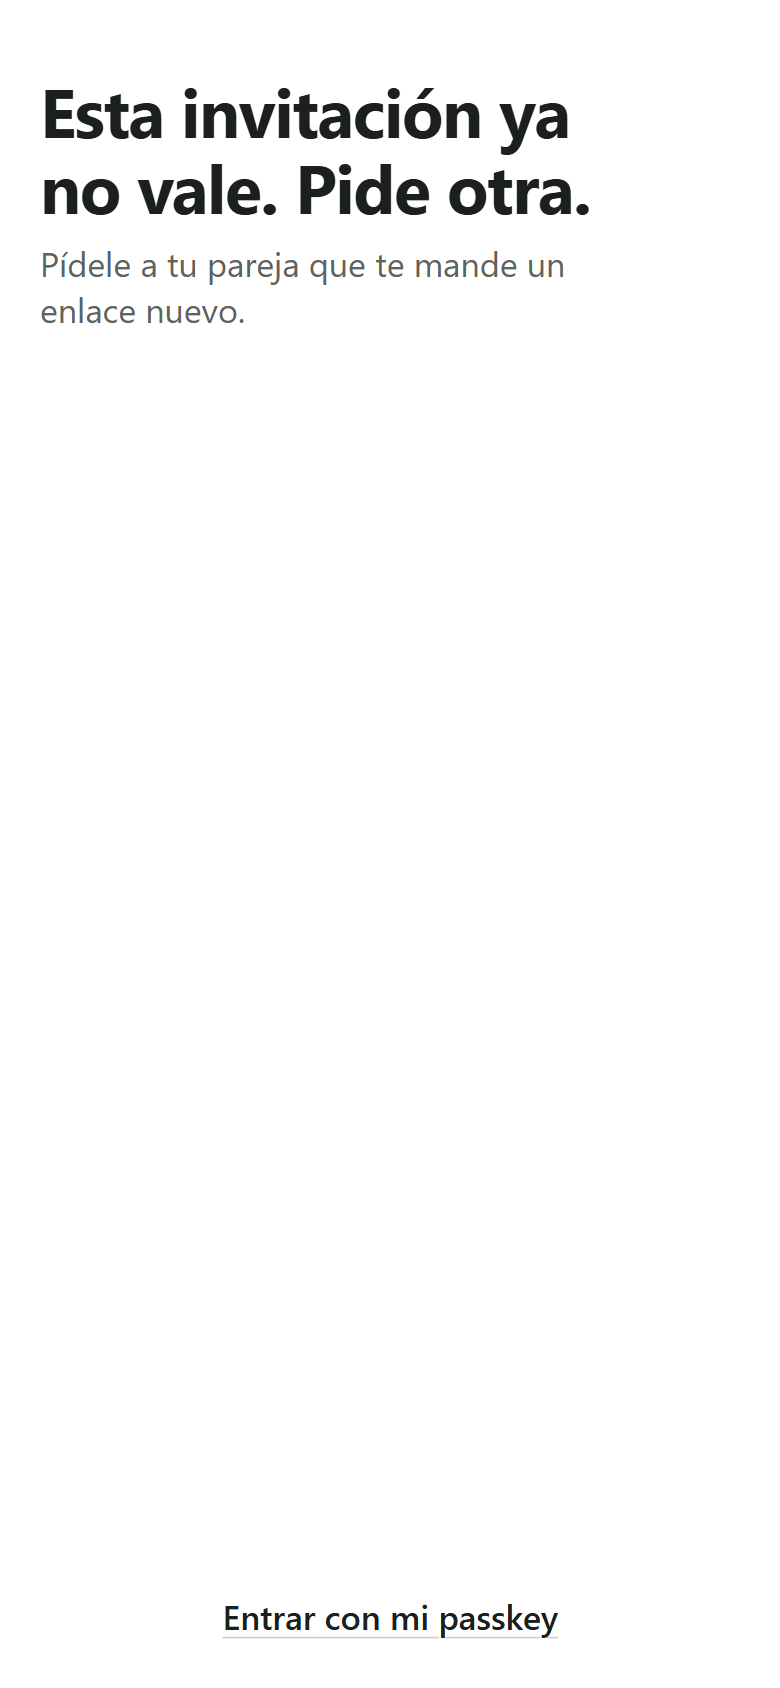
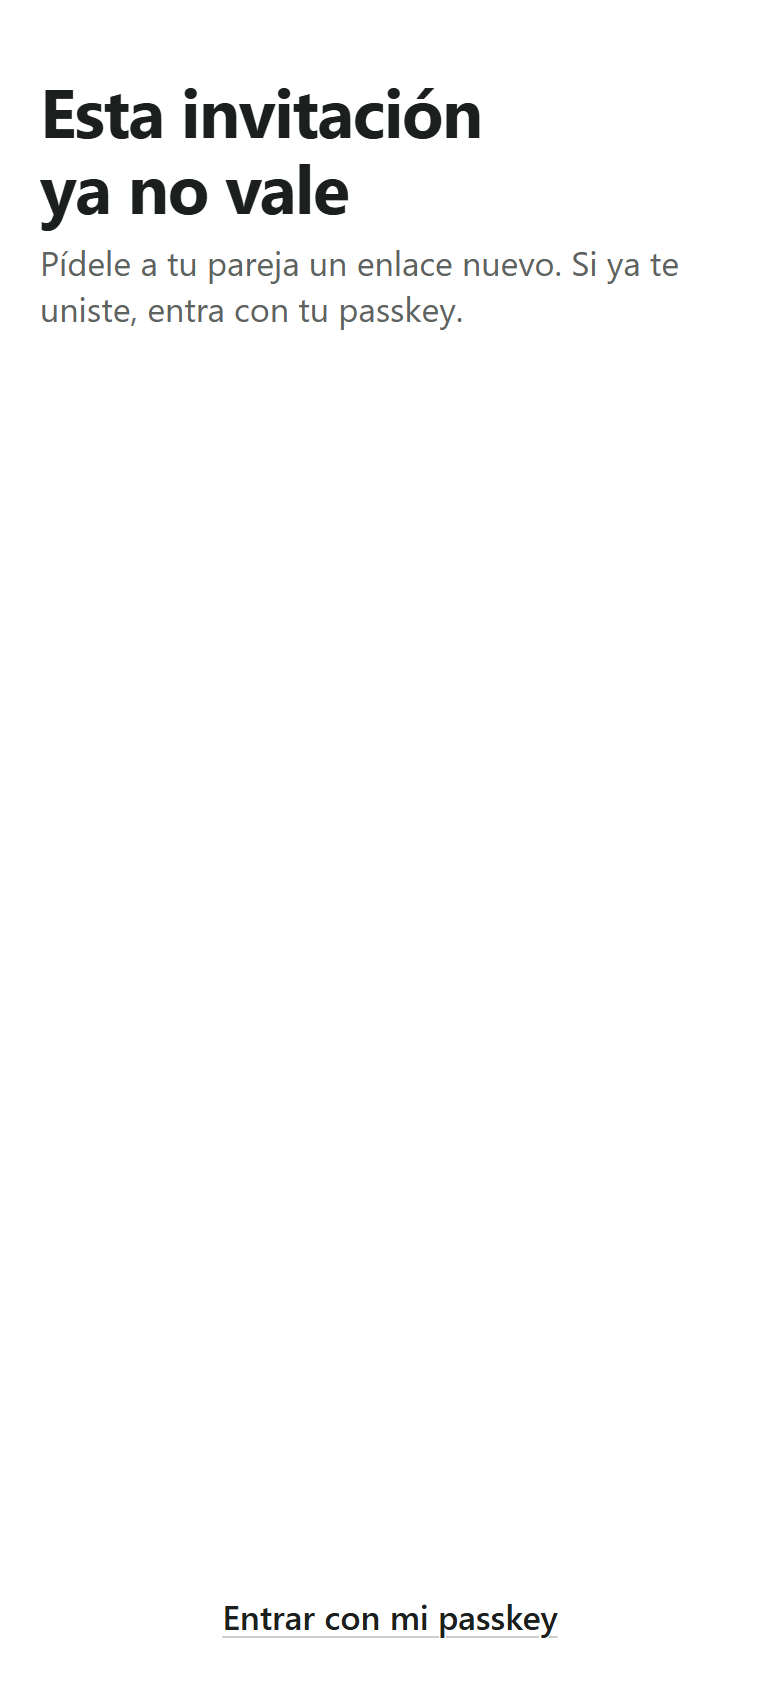
docs: show the recipes tab in the README

Changed region(s): [[0.0615, 0.0616, 0.8615, 0.2156], [0.4308, 0.955, 0.7077, 0.9858], [0.3077, 0.955, 0.4, 0.9858]]

diff --git a/README.md b/README.md
@@ -10,15 +10,18 @@ sola. Es una PWA para iPhone: React, Vite y TypeScript, servida por un Worker de
 
 ## En qué punto está
 
-La app se construye en seis planes. El primero, los cimientos, está terminado: acceso, base de datos,
-sincronización y las reglas de la semana. Las pantallas de uso diario llegan en los planes 2 a 5.
+La app se construye en seis planes. Los dos primeros están terminados:
+- **El 1, los cimientos:** acceso, base de datos, sincronización y las reglas de la semana.
+- **El 2, las recetas:** el recetario, la receta para cocinar y el editor con fotos.
+
+Las demás pantallas de uso diario llegan en los planes 3 a 5.
 
 | Parte | Estado |
 |---|---|
 | Entrar sin contraseñas: passkey, invitación y sesión | Funciona |
-| Copia en el móvil y sincronización | Funciona, sin pantallas que la usen |
-| Reglas: reparto, propuesta, lista, cantidades y notas | Funcionan, sin pantallas que las usen |
-| Recetas | Plan 2 |
+| Copia en el móvil y sincronización | Funciona. La copia se abre con tu hogar y se sincroniza sola al abrir, al escribir y al volver a la app |
+| Reglas: reparto, propuesta, lista, cantidades y notas | Funcionan. Las recetas ya usan las suyas: cantidades, tipos y marcas de los pasos |
+| Recetas: índice, búsqueda, cocinar, crear, editar, borrar y fotos | Funciona |
 | Semana | Plan 3 |
 | Lista de la compra | Plan 4 |
 | Registro | Plan 5 |
@@ -33,13 +36,30 @@ Las pantallas que ya existen, en un iPhone de 390 puntos.
     <td width="25%"><img src="docs/capturas/app-bienvenida-claro.png" alt="Bienvenida: el título Despensa, una línea que explica la app, el botón Crear nuestro hogar y el enlace Ya tengo cuenta: entrar"></td>
     <td width="25%"><img src="docs/capturas/app-invitacion-claro.png" alt="Invitación: Tu pareja te invita a su Despensa, con el botón Entrar con Face ID"></td>
     <td width="25%"><img src="docs/capturas/app-invitacion-caducada-claro.png" alt="Invitación que ya no vale, con el enlace Entrar con mi passkey"></td>
-    <td width="25%"><img src="docs/capturas/app-semana-claro.png" alt="Semana tras entrar: el título y la barra de cuatro pestañas, aún vacías"></td>
+    <td width="25%"><img src="docs/capturas/app-semana-claro.png" alt="Semana tras entrar: el título y la barra de cuatro pestañas, aún vacía"></td>
   </tr>
   <tr>
     <td><b>Bienvenida</b><br>Crear vuestro hogar o volver a entrar con tu passkey.</td>
     <td><b>Invitación</b><br>Lo que ve tu pareja al abrir el enlace.</td>
     <td><b>Invitación que ya no vale</b><br>Caducó, ya se usó o el hogar está completo.</td>
-    <td><b>Tras entrar</b><br>Las cuatro pestañas, aún vacías.</td>
+    <td><b>Tras entrar</b><br>Semana, Lista y Registro aún están vacías.</td>
+  </tr>
+</table>
+
+Las recetas, con las diez recetas inventadas de la semilla de desarrollo y una foto también inventada.
+
+<table>
+  <tr>
+    <td width="25%"><img src="docs/capturas/app-recetas-claro.png" alt="Recetas: el título, Nueva receta, el buscador y la lista de todas las recetas con sus tipos y su tiempo"></td>
+    <td width="25%"><img src="docs/capturas/app-receta-claro.png" alt="Lentejas estofadas a medio cocinar: los dos primeros pasos y los ingredientes que ya no se usan, tachados"></td>
+    <td width="25%"><img src="docs/capturas/app-editor-claro.png" alt="Editor de receta en la parte Ingredientes: cada ingrediente con su cantidad, su tipo y su sección"></td>
+    <td width="25%"><img src="docs/capturas/app-receta-foto-claro.png" alt="Lentejas estofadas con la miniatura de su foto junto al título"></td>
+  </tr>
+  <tr>
+    <td><b>Recetas</b><br>Todas, por nombre, con búsqueda por plato o ingrediente.</td>
+    <td><b>Cocinar</b><br>Al tachar un paso se tachan arriba los ingredientes que ya no se usan.</td>
+    <td><b>Editor</b><br>Por partes: la receta, los ingredientes y los pasos.</td>
+    <td><b>Con foto</b><br>Una miniatura junto al título; al tocarla se abre a lo ancho.</td>
   </tr>
 </table>
 
@@ -52,14 +72,20 @@ Las pantallas que ya existen, en un iPhone de 390 puntos.
     <td width="33%"><img src="docs/capturas/app-invitacion-oscuro.png" alt="Invitación en modo oscuro"></td>
     <td width="33%"><img src="docs/capturas/app-invitacion-caducada-oscuro.png" alt="Invitación que ya no vale en modo oscuro"></td>
   </tr>
+  <tr>
+    <td width="33%"><img src="docs/capturas/app-recetas-oscuro.png" alt="Recetas en modo oscuro"></td>
+    <td width="33%"><img src="docs/capturas/app-receta-oscuro.png" alt="Lentejas estofadas a medio cocinar en modo oscuro"></td>
+    <td width="33%"><img src="docs/capturas/app-editor-oscuro.png" alt="Editor de receta en modo oscuro"></td>
+  </tr>
 </table>
 
 </details>
 
 ## Cómo será
 
-Los cuatro prototipos aprobados, con recetas inventadas. Son el diseño que se construye en los
-planes 2 a 5.
+Los cuatro prototipos aprobados, con recetas inventadas. Recetas ya está construida (arriba); el resto
+es el diseño que se construye en los planes 3 a 5. El editor de recetas tiene su propio prototipo,
+`prototipo/editor.html`.
 
 <table>
   <tr>
@@ -107,6 +133,19 @@ planes 2 a 5.
    ese momento los dos estáis en el mismo hogar.
 4. **Volver a entrar.** **Ya tengo cuenta: entrar** usa la passkey que ya tienes. Lo necesitarás en la
    app instalada en la pantalla de inicio, que no comparte la sesión con Safari.
+5. **Añade vuestras recetas.** En Recetas, **Nueva receta** abre el editor, que va por partes:
+   - **Receta:** el nombre, las raciones, el tiempo y la foto.
+   - **Ingredientes:** la cantidad de cada uno y su tipo. El tipo dice si el plato es energético. La
+     sección del súper y si va a la lista se proponen solos.
+   - **Pasos:** se escriben tal cual los diríais. Debajo de cada paso, la línea **Usa** dice qué
+     ingredientes nombra. Esos ingredientes se tachan al cocinar.
+
+   La foto se sube al elegirla y necesita conexión. El resto se guarda aunque no haya cobertura.
+6. **Cocina.** Abre la receta y toca cada paso al terminarlo. Arriba se tachan los ingredientes que
+   ya no vas a usar. El progreso se queda en el móvil 12 horas, y **Empezar de nuevo** lo borra (con
+   **Deshacer**).
+7. **Corrige o borra.** **Editar** abre la receta en el editor. **Borrar receta** la quita, y en el
+   índice queda **Deshacer** hasta la siguiente acción.
 
 > Si una invitación ya no vale, pide un enlace nuevo. Si en realidad ya estabas dentro, usa **Entrar
 > con mi passkey**. No se puede sacar a nadie de un hogar, y de momento no hace falta: si alguien
@@ -129,7 +168,7 @@ permite probar las passkeys con un autenticador virtual.
    npm run db:migrar:local
    ```
 
-3. Comprueba que todo pasa (106 tests):
+3. Comprueba que pasan los tests:
 
    ```sh
    npm test
@@ -145,6 +184,14 @@ permite probar las passkeys con un autenticador virtual.
 5. Activa un autenticador en Chrome: DevTools, menú ⋮, *More tools*, *WebAuthn*, *Enable virtual
    authenticator environment* y *Add* con protocolo `ctap2`, transporte `internal` y *resident key* y
    *user verification* activados. Si tu ordenador tiene Touch ID o Windows Hello, también sirve.
+6. Para tener recetas con las que probar, crea un hogar y escribe en la consola del navegador:
+
+   ```js
+   await despensa.semilla()
+   ```
+
+   Carga las diez recetas inventadas de los prototipos. Solo existe en desarrollo (`npm run dev`) y se
+   puede repetir sin duplicar nada. Hazlo en un solo hogar: las recetas de la semilla tienen ids fijos.
 
 ### Comandos
 
@@ -188,6 +235,8 @@ hacer nada más.
 | Tu passkey | En tu llavero |
 | Sesiones e invitaciones | Solo su hash |
 | Recetas, semana y notas | En la D1 de tu cuenta de Cloudflare |
+| Fotos de las recetas | En R2, en tu cuenta de Cloudflare, reducidas en el móvil y sin datos de la cámara ni de ubicación |
+| Progreso al cocinar | Solo en tu móvil, 12 horas |
 
-Cada hogar solo ve sus filas, y nadie puede cambiar ni borrar la nota de su pareja. Las capturas de
-este README usan datos inventados.
+Cada hogar solo ve sus filas y sus fotos, y nadie puede cambiar ni borrar la nota de su pareja. Las
+capturas de este README usan datos inventados, y la foto es una ilustración, no una foto real.
